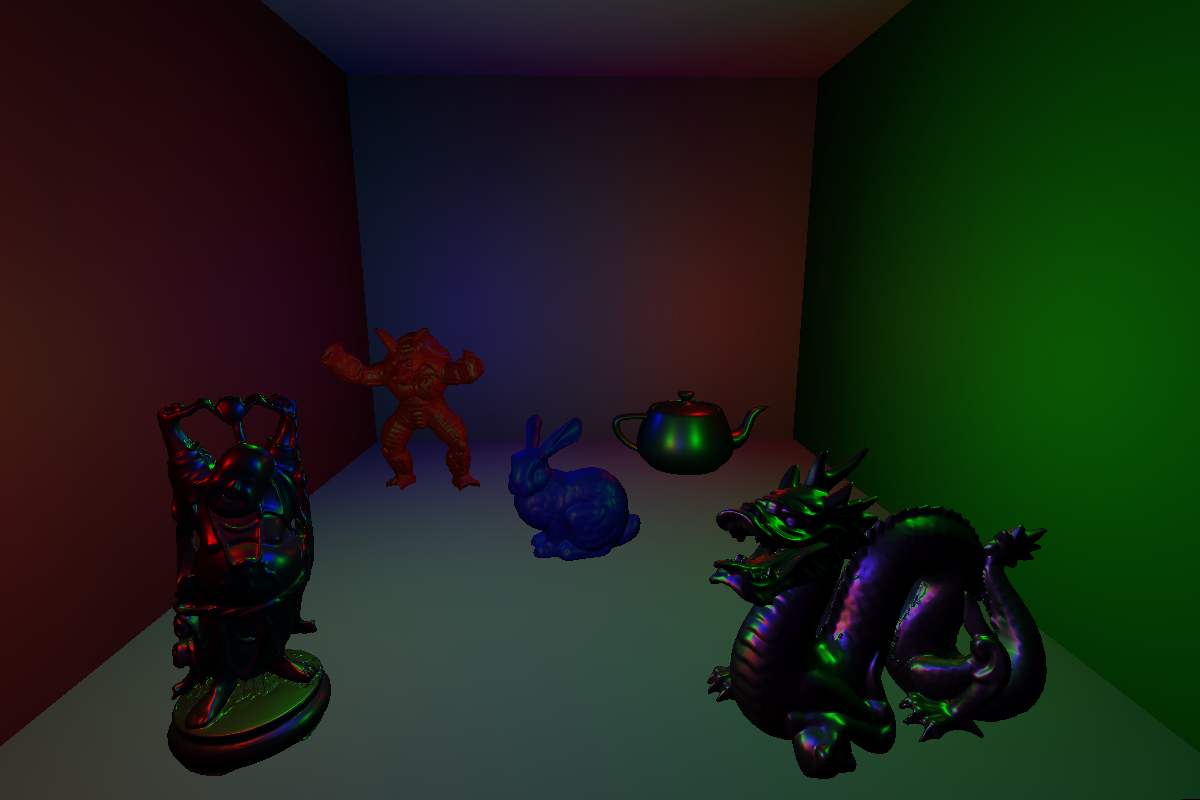
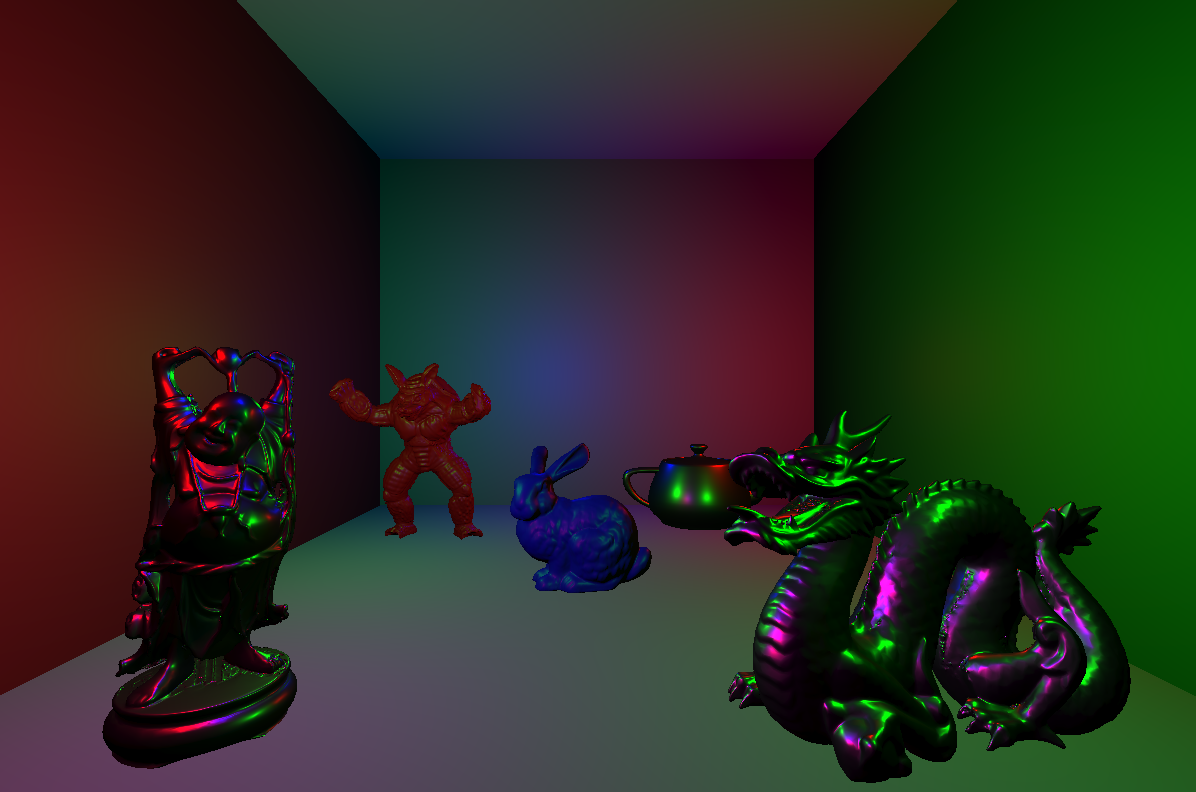
Fixed some errors and added screenshots

diff --git a/src/mesh.cpp b/src/mesh.cpp
@@ -185,9 +185,9 @@ static void loadMesh(const render::context_t& context, const struct aiScene* sce
   u32 vertexSize = 3;
   u32 attributeCount = 1;
 
-  bool importNormals = (flags & EXPORT_NORMALS) != 0;
-  bool importUV = (flags & EXPORT_UV) != 0;
-  bool importBoneWeights = (flags & EXPORT_BONE_WEIGHTS) != 0;
+  bool importNormals = (((flags & EXPORT_NORMALS) != 0) && bHasNormal);
+  bool importUV = (((flags & EXPORT_UV) != 0) && bHasUV );
+  bool importBoneWeights = (((flags & EXPORT_BONE_WEIGHTS) != 0) && (boneCount > 0));
 
   if (importNormals)
   {
@@ -622,6 +622,67 @@ mesh::mesh_t mesh::fullScreenQuad(const bkk::render::context_t& context)
   attributes[0].stride_ = sizeof(Vertex);
   attributes[1].format_ = bkk::render::vertex_attribute_t::format::VEC2;;
   attributes[1].offset_ = offsetof(Vertex, uv);
+  attributes[1].stride_ = sizeof(Vertex);
+
+  bkk::mesh::mesh_t mesh;
+  bkk::mesh::create(context, indices, sizeof(indices), (const void*)vertices, sizeof(vertices), attributes, 2, nullptr, &mesh);
+  return mesh;
+}
+
+mesh_t mesh::unitCube(const bkk::render::context_t& context)
+{
+  struct Vertex
+  {
+    float position[3];
+    float normal[3];
+  };
+
+  //WARNING: IN Vulkan, Y is pointing down in NDC!
+  static const Vertex vertices[] = { {{ -0.5f, -0.5f, -0.5f },{ 0.0f, 0.0f, -1.0f } },
+                                     {{ -0.5f, -0.5f, -0.5f },{ 0.0f, -1.0f, 0.0f } },
+                                     {{ -0.5f, -0.5f, -0.5f },{ -1.0f, 0.0f, 0.0f } },
+
+
+                                     { { -0.5f, -0.5f,  0.5f },{ 0.0f, 0.0f, 1.0f } },
+                                     { { -0.5f, -0.5f,  0.5f },{ 0.0f, -1.0f, 0.0f } },
+                                     { { -0.5f, -0.5f,  0.5f },{ -1.0f, 0.0f, 0.0f } },
+
+
+                                     { { -0.5f,  0.5f, -0.5f },{ 0.0f, 0.0f, -1.0f } },
+                                     { { -0.5f,  0.5f, -0.5f },{ 0.0f, 1.0f, 0.0f } },
+                                     { { -0.5f,  0.5f, -0.5f },{ -1.0f, 0.0f, 0.0f } },
+
+
+                                     { { -0.5f,  0.5f,  0.5f },{ 0.0f, 0.0f, 1.0f } },
+                                     { { -0.5f,  0.5f,  0.5f },{ 0.0f, 1.0f, 0.0f } },
+                                     { { -0.5f,  0.5f,  0.5f },{ -1.0f, 0.0f, 0.0f } },
+
+                                     { { 0.5f, -0.5f, -0.5f },{ 0.0f, 0.0f, -1.0f } },
+                                     { { 0.5f, -0.5f, -0.5f },{ 0.0f, -1.0f, 0.0f } },
+                                     { { 0.5f, -0.5f, -0.5f },{ 1.0f, 0.0f, 0.0f } },
+
+                                     { { 0.5f, -0.5f,  0.5f },{ 0.0f, 0.0f, 1.0f } },
+                                     { { 0.5f, -0.5f,  0.5f },{ 0.0f, -1.0f, 0.0f } },
+                                     { { 0.5f, -0.5f,  0.5f },{ 1.0f, 0.0f, 0.0f } },
+
+                                     { { 0.5f,  0.5f, -0.5f },{ 0.0f, 0.0f, -1.0f } },
+                                     { { 0.5f,  0.5f, -0.5f },{ 0.0f, 1.0f, 0.0f } },
+                                     { { 0.5f,  0.5f, -0.5f },{ 1.0f, 0.0f, 0.0f } },
+
+                                     { { 0.5f,  0.5f,  0.5f },{ 0.0f, 0.0f, 1.0f } },
+                                     { { 0.5f,  0.5f,  0.5f },{ 0.0f, 1.0f, 0.0f } },
+                                     { { 0.5f,  0.5f,  0.5f },{ 1.0f, 0.0f, 0.0f } }
+
+  };
+
+  static const uint32_t indices[] = { 3, 21, 9, 0, 18, 12, 0, 6, 18, 2, 11,8, 2, 5, 11, 7, 22, 19, 7, 10, 22, 14, 20, 23, 14, 23, 17, 1, 13, 16, 1, 16, 4, 3, 15, 21 };
+
+  static bkk::render::vertex_attribute_t attributes[2];
+  attributes[0].format_ = bkk::render::vertex_attribute_t::format::VEC3;
+  attributes[0].offset_ = 0;
+  attributes[0].stride_ = sizeof(Vertex);
+  attributes[1].format_ = bkk::render::vertex_attribute_t::format::VEC3;;
+  attributes[1].offset_ = offsetof(Vertex, normal);
   attributes[1].stride_ = sizeof(Vertex);
 
   bkk::mesh::mesh_t mesh;

diff --git a/samples/global-illumination/global-illumination.cpp b/samples/global-illumination/global-illumination.cpp
@@ -227,10 +227,7 @@ static const char* gPointLightPassFragmentShaderSource = R"(
     float attenuation = 1.0 - clamp( lightDistance / light.radius, 0.0, 1.0);
     attenuation *= attenuation;
     float NdotL =  max( 0.0, dot( N, L ) );
-    vec3 color = (kD * albedo / PI + specular) * (light.color*attenuation) * NdotL;
-    color = color / (color + vec3(1.0));
-    color = pow(color, vec3(1.0 / 2.2));
-    result = vec4(color,1.0);
+    result = vec4( (kD * albedo / PI + specular) * (light.color*attenuation) * NdotL, 1.0 );
   }
 )";
 
@@ -378,10 +375,7 @@ static const char* gDirectionalLightPassFragmentShaderSource = R"(
     attenuation += step( 0.5, float((texelFetch( shadowMapRT0, shadowMapUV+ivec2(-1,-1), 0).r + bias) > postionInLigthClipSpace.z ));
     attenuation += step( 0.5, float((texelFetch( shadowMapRT0, shadowMapUV+ivec2( 1,-1), 0).r + bias) > postionInLigthClipSpace.z ));
     attenuation /= 9.0;
-    vec3 color = (kD * diffuseColor + specular) * (light.color.rgb * attenuation) * NdotL + ambientColor;
-    color = color / (color + vec3(1.0));
-    color = pow(color, vec3(1.0 / 2.2));
-    result = vec4(color,1.0);
+    result = vec4( (kD * diffuseColor + specular) * (light.color.rgb * attenuation) * NdotL + ambientColor, 1.0);
   }
 )";
 
@@ -526,8 +520,6 @@ static const char* gDirectionalLightPassGIFragmentShaderSource = R"(
     vec3 positionWS = (scene.viewToWorld * vec4(positionVS, 1.0 )).xyz;
     vec3 normalWS = normalize((transpose( inverse( scene.viewToWorld) ) * vec4(N,0.0)).xyz);
     color += sampleIndirectLight(positionWS, normalWS, shadowMapUV);
-    color = color / (color + vec3(1.0));
-    color = pow(color, vec3(1.0 / 2.2));
     result = vec4(color,1.0);
   }
 )";
@@ -621,6 +613,7 @@ static const char* gPresentationFragmentShaderSource = R"(
   void main(void)
   {
     color = texture(uTexture, uv);
+    color.rgb = pow(color.rgb, vec3(1.0 / 2.2));
   }
 )";
 

diff --git a/src/render.cpp b/src/render.cpp
@@ -2574,8 +2574,7 @@ void render::textureCubemapCreateFromEquirectangularImage(const context_t& conte
   bkk::render::texture2DCreate(context, &image, 1, bkk::render::texture_sampler_t(), &texture);
   bkk::render::textureCubemapCreate(context, VK_FORMAT_R32G32B32A32_SFLOAT, size, size, mipLevels, bkk::render::texture_sampler_t(), cubemap);
 
-  mesh::mesh_t cube;
-  mesh::createFromFile(context, "../resources/cube.obj", mesh::EXPORT_POSITION_ONLY, nullptr, 0u, &cube);
+  mesh::mesh_t cube = mesh::unitCube(context);
 
   //Change cubemap layout for transfer
   VkImageSubresourceRange subresourceRange = {};
@@ -2759,8 +2758,7 @@ void render::textureCubemapCreateFromEquirectangularImage(const context_t& conte
 
 void render::diffuseConvolution(const context_t& context, texture_cubemap_t environmentMap, uint32_t size, texture_cubemap_t* irradiance)
 {
-  mesh::mesh_t cube;
-  mesh::createFromFile(context, "../resources/cube.obj", mesh::EXPORT_POSITION_ONLY, nullptr, 0u, &cube);
+  mesh::mesh_t cube = mesh::unitCube(context);
 
   bkk::render::textureCubemapCreate(context, VK_FORMAT_R32G32B32A32_SFLOAT, size, size, 1u, bkk::render::texture_sampler_t(), irradiance);
   //Change cubemap layout for transfer
@@ -2955,8 +2953,7 @@ void render::diffuseConvolution(const context_t& context, texture_cubemap_t envi
 
 void render::specularConvolution(const context_t& context, texture_cubemap_t environmentMap, uint32_t size, uint32_t maxMipmapLevels, texture_cubemap_t* specularMap)
 {
-  mesh::mesh_t cube;
-  mesh::createFromFile(context, "../resources/cube.obj", mesh::EXPORT_POSITION_ONLY, nullptr, 0u, &cube);
+  mesh::mesh_t cube = mesh::unitCube(context);
 
   u32 mipLevels = maths::minValue((u32)(1 + floor(log2(size))), maxMipmapLevels);
   bkk::render::textureCubemapCreate(context, VK_FORMAT_R32G32B32A32_SFLOAT, size, size, mipLevels, bkk::render::texture_sampler_t(), specularMap);

diff --git a/samples/deferred-shading/deferred-shading.cpp b/samples/deferred-shading/deferred-shading.cpp
@@ -220,10 +220,7 @@ static const char* gLightPassFragmentShaderSource = R"(
     float attenuation = 1.0 - clamp( lightDistance / light.radius, 0.0, 1.0);
     attenuation *= attenuation;
     float NdotL =  max( 0.0, dot( N, L ) );
-    vec3 color = (kD * albedo / PI + specular) * (light.color*attenuation) * NdotL;
-    color = color / (color + vec3(1.0));
-    color = pow(color, vec3(1.0 / 2.2));
-    result = vec4(color,1.0);
+    result = vec4( (kD * albedo / PI + specular) * (light.color*attenuation) * NdotL, 1.0 );
   }
 )";
 
@@ -1014,12 +1011,12 @@ int main()
   scene.addObject(teapot, gold, maths::createTransform(maths::vec3(2.0f, 0.0f, -3.0f), maths::vec3(0.5f, 0.5f, 0.5f), maths::QUAT_UNIT));
 
   //Lights
-  scene.addLight(vec3(0.0f, 0.0f, 0.0f), 10.0f, vec3(0.5f,0.0f,0.0f));
-  scene.addLight(vec3(0.0f, 0.0f, 0.0f), 10.0f, vec3(0.0f, 0.5f, 0.0f));
-  scene.addLight(vec3(0.0f, 0.0f, 0.0f), 10.0f, vec3(0.0f, 0.0f, 0.5f));
-  scene.addLight(vec3(0.0f, 0.0f, 0.0f), 10.0f, vec3(0.5f, 0.0f, 0.0f));
-  scene.addLight(vec3(0.0f, 0.0f, 0.0f), 10.0f, vec3(0.0f, 0.5f, 0.0f));
-  scene.addLight(vec3(0.0f, 0.0f, 0.0f), 10.0f, vec3(0.0f, 0.0f, 0.5f));
+  scene.addLight(vec3(0.0f, 0.0f, 0.0f), 10.0f, vec3(1.5f,0.0f,0.0f));
+  scene.addLight(vec3(0.0f, 0.0f, 0.0f), 10.0f, vec3(0.0f, 1.5f, 0.0f));
+  scene.addLight(vec3(0.0f, 0.0f, 0.0f), 10.0f, vec3(0.0f, 0.0f, 1.5f));
+  scene.addLight(vec3(0.0f, 0.0f, 0.0f), 10.0f, vec3(1.5f, 0.0f, 0.0f));
+  scene.addLight(vec3(0.0f, 0.0f, 0.0f), 10.0f, vec3(0.0f, 1.5f, 0.0f));
+  scene.addLight(vec3(0.0f, 0.0f, 0.0f), 10.0f, vec3(0.0f, 0.0f, 1.5f));
   
   scene.loop();
   return 0;

diff --git a/samples/pbr-renderer/pbr-renderer.cpp b/samples/pbr-renderer/pbr-renderer.cpp
@@ -247,10 +247,7 @@ static const char* gLightPassFragmentShaderSource = R"(
 
     attenuation *= attenuation;
     float NdotL =  max( 0.0, dot( N, L ) );
-    vec3 color = (kD * albedo / PI + specular) * (light.color*attenuation) * NdotL;
-    color = color / (color + vec3(1.0));
-    color = pow(color, vec3(1.0 / 2.2));
-    result = vec4(color,1.0);    
+    result = vec4( (kD * albedo / PI + specular) * (light.color*attenuation) * NdotL, 1.0);
   }
 )";
 
@@ -382,7 +379,7 @@ static const char* gPresentationFragmentShaderSource = R"(
     vec4 sceneColor = color = texture(uTexture,uv);
 
     color = envColor * step(depthNormalValue.w, 0.0) + sceneColor * step(0.0, depthNormalValue.w );
-    color.rgb = pow(color.rgb, vec3(1.0 / 2.0));
+    color.rgb = pow(color.rgb, vec3(1.0 / 2.2));
   }
 )";
 
@@ -1134,7 +1131,7 @@ int main()
     for (u32 i = 0; i < roughnessSamples; ++i)
     {
       u32 index = j * roughnessSamples + i;
-      materials[index] = renderer.addMaterial(vec3(0.5f, 0.5f, 0.5f), 0.0f, vec3(F0, F0, F0), roughness);
+      materials[index] = renderer.addMaterial(vec3(1.0f, 0.0f, 0.0f), 0.0f, vec3(F0, F0, F0), roughness);
       objects[index] = renderer.addObject(sphere, materials[index], maths::createTransform(maths::vec3(x, 0.0, y), maths::VEC3_ONE, maths::QUAT_UNIT));
       roughness += 1.0f / roughnessSamples;      
       x += deltaX;
@@ -1144,6 +1141,7 @@ int main()
 
   //Light
   renderer.addLight(vec3(0.0f, 0.0f, 1.0f), 0.0f, vec3(0.5f, 0.5f, 0.5f));
+  renderer.addLight(vec3(0.0f, 0.0f, -1.0f), 0.0f, vec3(0.1f, 0.1f, 0.1f));
 
   renderer.loop();
   return 0;

diff --git a/samples/scene/scene.cpp b/samples/scene/scene.cpp
@@ -225,10 +225,7 @@ static const char* gPointLightPassFragmentShaderSource = R"(
     float attenuation = 1.0 - clamp( lightDistance / light.radius, 0.0, 1.0);
     attenuation *= attenuation;
     float NdotL =  max( 0.0, dot( N, L ) );
-    vec3 color = (kD * albedo / PI + specular) * (light.color*attenuation) * NdotL;
-    color = color / (color + vec3(1.0));
-    color = pow(color, vec3(1.0 / 2.2));
-    result = vec4(color,1.0);
+    result = vec4( (kD * albedo / PI + specular) * (light.color*attenuation) * NdotL, 1.0);
   }
 )";
 
@@ -375,10 +372,7 @@ static const char* gDirectionalLightPassFragmentShaderSource = R"(
     attenuation += step( 0.5, float((texelFetch( shadowMap, shadowMapUV+ivec2(-1,-1), 0).r + bias) > postionInLigthClipSpace.z ));
     attenuation += step( 0.5, float((texelFetch( shadowMap, shadowMapUV+ivec2( 1,-1), 0).r + bias) > postionInLigthClipSpace.z ));
     attenuation /= 9.0;
-    vec3 color = (kD * diffuseColor + specular) * (light.color.rgb * attenuation) * NdotL + ambientColor;
-    color = color / (color + vec3(1.0));
-    color = pow(color, vec3(1.0 / 2.2));
-    result = vec4(color,1.0);
+    result = vec4( (kD * diffuseColor + specular) * (light.color.rgb * attenuation) * NdotL + ambientColor, 1.0);
   }
 )";
 
@@ -443,6 +437,7 @@ static const char* gPresentationFragmentShaderSource = R"(
   void main(void)
   {
     color = texture(uTexture, uv);
+    color.rgb = pow(color.rgb, vec3(1.0 / 2.2));
   }
 )";
 

diff --git a/samples/skinning/skinning.cpp b/samples/skinning/skinning.cpp
@@ -131,7 +131,7 @@ public:
     else
     {
       //Create the texture
-      bkk::render::texture2DCreate(context, &image, 1, bkk::render::texture_sampler_t(), &texture_);
+      bkk::render::texture2DCreateAndGenerateMipmaps(context, image, bkk::render::texture_sampler_t(), &texture_);
       bkk::image::unload(&image);
     }
 

diff --git a/include/mesh.h b/include/mesh.h
@@ -145,6 +145,7 @@ namespace bkk
     void animatorDestroy(const render::context_t& context, skeletal_animator_t* animator);
 
     mesh_t fullScreenQuad(const bkk::render::context_t& context);
+    mesh_t unitCube(const bkk::render::context_t& context);
 
   } //mesh namespace
 }//namespace bkk

diff --git a/samples/path-tracing/path-tracing.cpp b/samples/path-tracing/path-tracing.cpp
@@ -58,7 +58,6 @@ static const char* gFragmentShaderSource = R"(
   {
     vec4 texColor = texture(uTexture, uv);
     vec3 color = texColor.rgb;
-    //color = color / (color + vec3(1.0));
     color = pow(color, vec3(1.0 / 2.2));
     result = vec4(color, 1.0);
   }

diff --git a/samples/distance-field/distance-field.cpp b/samples/distance-field/distance-field.cpp
@@ -59,7 +59,6 @@ static const char* gFragmentShaderSource = R"(
   {
     vec4 texColor = texture(uTexture, uv);
     vec3 color = texColor.rgb;
-    color = color / (color + vec3(1.0));
     color = pow(color, vec3(1.0 / 2.2));
     result = vec4(color, 1.0);
   }
